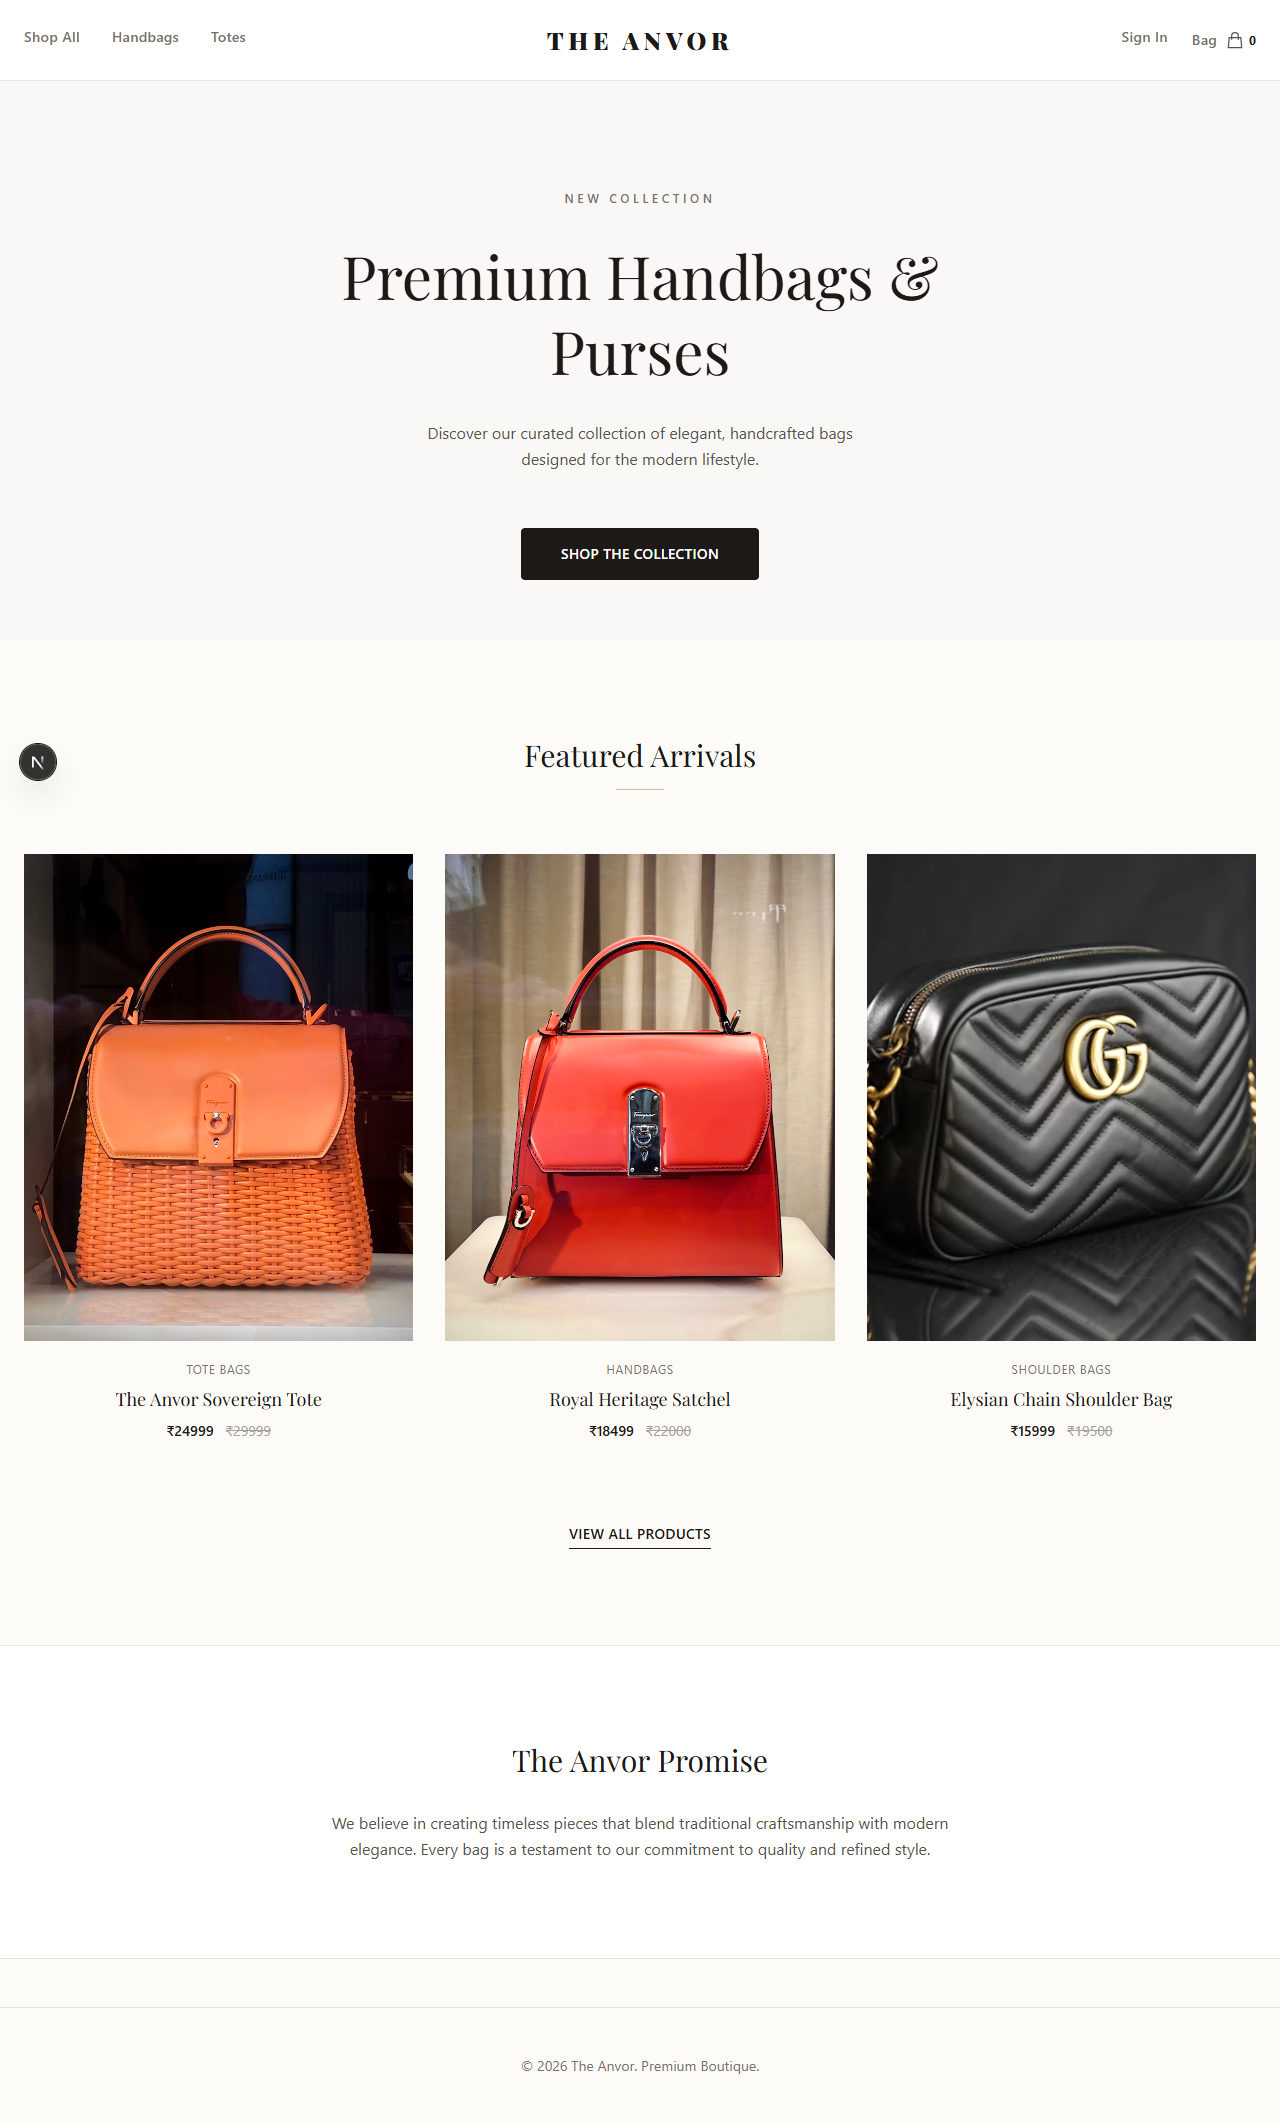
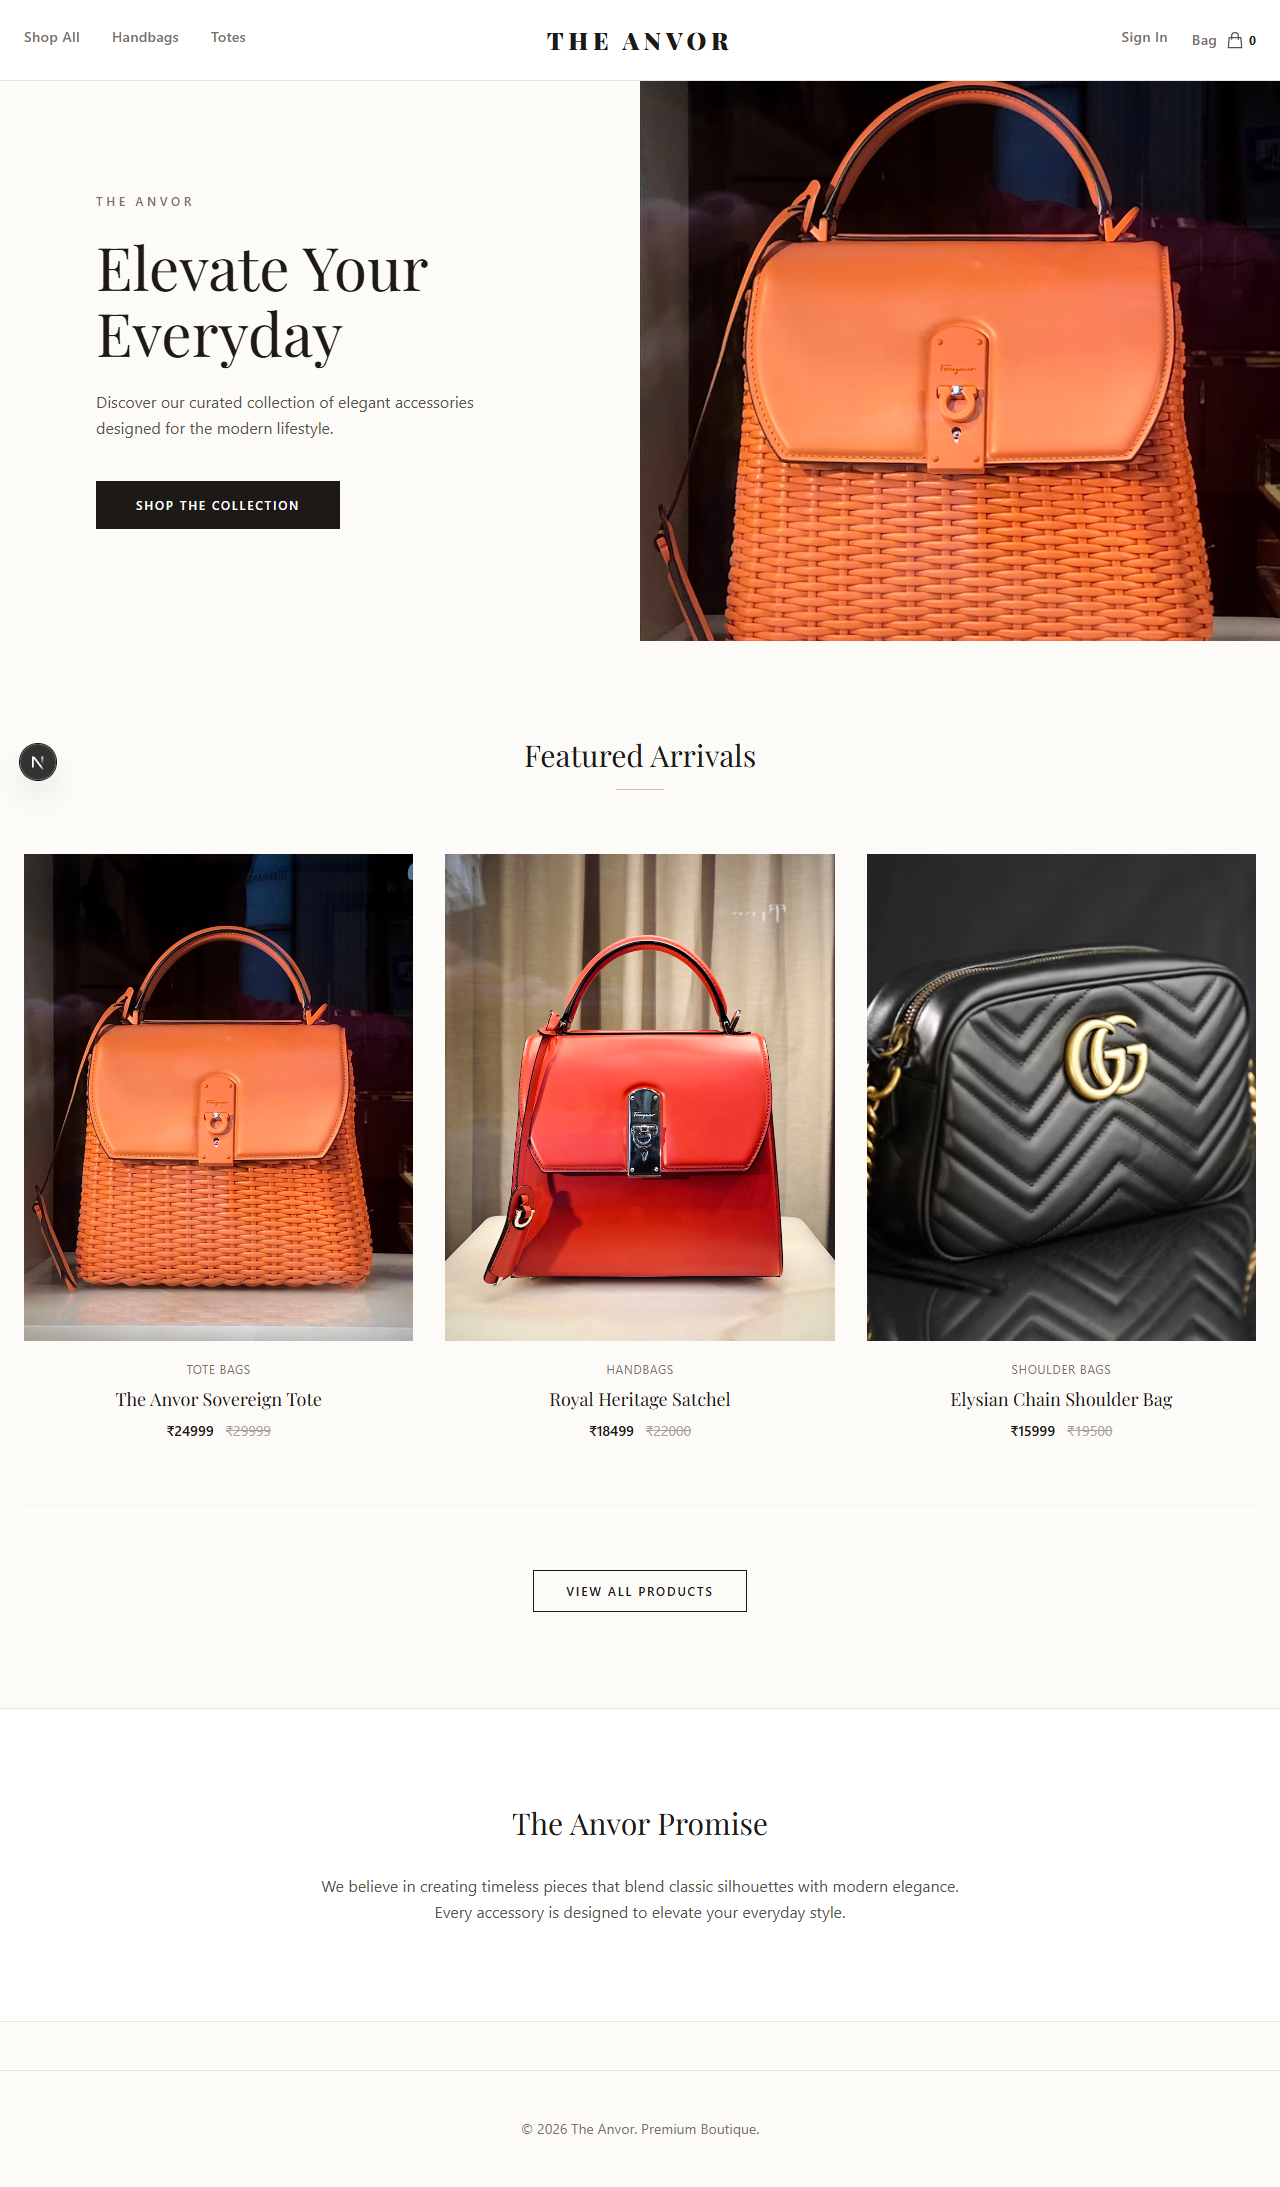
chore: final day 4 polish (hero layout, stricter csrf origin, rate limiting tests)

diff --git a/client/src/app/page.tsx b/client/src/app/page.tsx
@@ -11,30 +11,34 @@ export default async function Home() {
 
   return (
     <div className="flex flex-col">
-      {/* Hero Section */}
-      <section className="relative w-full h-[70vh] min-h-125 flex flex-col justify-center items-center text-center px-6 overflow-hidden bg-[#FDFBF7]">
-        {/* Subtle decorative background - we could use an image here later */}
-        <div className="absolute inset-0 bg-stone-100/50 z-0 flex flex-col items-center justify-center overflow-hidden">
-           {/* Abstract warm gradient or image could go here, keeping it extremely subtle for now */}
-           <div className="w-[150%] h-[150%] bg-[radial-gradient(ellipse_at_center,var(--tw-gradient-stops))] from-stone-200/40 via-[#FDFBF7] to-[#FDFBF7] rounded-full blur-3xl opacity-60"></div>
-        </div>
-        
-        <div className="relative z-10 max-w-2xl mx-auto space-y-8 mt-12">
-          <p className="text-xs tracking-[0.3em] text-stone-500 uppercase font-medium">New Collection</p>
-          <h1 className="text-4xl md:text-6xl font-serif text-stone-900 leading-tight">
-            Premium Handbags &amp; Purses
+      {/* Editorial Hero Section */}
+      <section className="relative w-full min-h-[70vh] flex flex-col md:flex-row bg-[#FDFBF7]">
+        <div className="w-full md:w-1/2 flex flex-col justify-center items-center md:items-start text-center md:text-left px-8 md:px-16 lg:px-24 py-20 md:py-16">
+          <p className="text-xs tracking-[0.3em] text-stone-500 uppercase font-medium mb-6">The Anvor</p>
+          <h1 className="text-4xl md:text-5xl lg:text-6xl font-serif text-stone-900 leading-[1.1] mb-6">
+            Elevate Your Everyday
           </h1>
-          <p className="text-sm md:text-base text-stone-600 max-w-md mx-auto leading-relaxed">
-            Discover our curated collection of elegant, handcrafted bags designed for the modern lifestyle.
+          <p className="text-sm md:text-base text-stone-600 max-w-sm leading-relaxed mb-10">
+            Discover our curated collection of elegant accessories designed for the modern lifestyle.
           </p>
-          <div className="pt-6">
-            <Link 
-              href="/products" 
-              className="inline-block bg-stone-900 text-white text-sm font-semibold tracking-wide uppercase px-10 py-4 rounded-sm hover:bg-stone-800 transition-colors"
-            >
-              Shop the Collection
-            </Link>
-          </div>
+          <Link 
+            href="/products" 
+            className="inline-block bg-stone-900 text-white text-xs font-semibold tracking-[0.15em] uppercase px-10 py-4 hover:bg-stone-800 transition-colors"
+          >
+            Shop the Collection
+          </Link>
+        </div>
+        <div className="w-full md:w-1/2 relative h-[50vh] md:h-auto bg-stone-100">
+          {featuredProducts.length > 0 ? (
+            /* eslint-disable-next-line @next/next/no-img-element */
+            <img 
+              src={featuredProducts[0].images?.[0] || 'https://via.placeholder.com/800x1000?text=Editorial'}
+              alt="Featured Collection"
+              className="absolute inset-0 w-full h-full object-cover object-center"
+            />
+          ) : (
+            <div className="absolute inset-0 bg-stone-200"></div>
+          )}
         </div>
       </section>
 
@@ -83,8 +87,8 @@ export default async function Home() {
         )}
         
         {featuredProducts.length > 0 && (
-          <div className="mt-20 text-center">
-             <Link href="/products" className="inline-block border-b border-stone-900 pb-1 text-sm font-medium tracking-wide text-stone-900 hover:text-amber-800 hover:border-amber-800 transition-colors uppercase">
+          <div className="mt-16 text-center border-t border-stone-100 pt-16">
+             <Link href="/products" className="inline-block border border-stone-900 px-8 py-3 text-xs font-semibold tracking-[0.15em] text-stone-900 hover:bg-stone-900 hover:text-white transition-colors uppercase">
                View all products
              </Link>
           </div>
@@ -96,7 +100,7 @@ export default async function Home() {
         <div className="max-w-4xl mx-auto text-center space-y-8">
           <h2 className="text-2xl md:text-3xl font-serif text-stone-900">The Anvor Promise</h2>
           <p className="text-stone-600 leading-relaxed max-w-2xl mx-auto">
-            We believe in creating timeless pieces that blend traditional craftsmanship with modern elegance. Every bag is a testament to our commitment to quality and refined style.
+            We believe in creating timeless pieces that blend classic silhouettes with modern elegance. Every accessory is designed to elevate your everyday style.
           </p>
         </div>
       </section>

diff --git a/server/src/app.js b/server/src/app.js
@@ -10,23 +10,47 @@ const app = express();
 app.use(express.json()); // Parse JSON payloads
 app.use(cookieParser()); // Parse cookies for future JWT authentication
 
-// CORS configuration for local development
+const allowedOrigins = process.env.FRONTEND_URL 
+  ? process.env.FRONTEND_URL.split(',').map(o => o.trim())
+  : ['http://localhost:3000'];
+
+// CORS configuration
 app.use(cors({
-  origin: 'http://localhost:3000', // Allow requests only from our Next.js frontend
+  origin: (origin, callback) => {
+    // Allow requests with no origin (like mobile apps or curl requests)
+    if (!origin) return callback(null, true);
+    if (allowedOrigins.includes(origin)) {
+      return callback(null, true);
+    }
+    return callback(new Error('Not allowed by CORS'));
+  },
   credentials: true, // Allow cookies to be sent across origins
 }));
 
 // Explicit CSRF / Origin Validation for state-changing methods
 app.use((req, res, next) => {
-  const allowedOrigin = 'http://localhost:3000';
   const methods = ['POST', 'PUT', 'PATCH', 'DELETE'];
   
   // Only validate state-changing methods
   if (methods.includes(req.method)) {
-    const origin = req.headers.origin || req.headers.referer;
-    // In strict CSRF prevention, missing origin/referer on state-changing methods is usually rejected
-    // or strictly compared to the allowed origin
-    if (!origin || !origin.startsWith(allowedOrigin)) {
+    // Mobile apps using Bearer tokens are not vulnerable to browser-based CSRF
+    const authHeader = req.headers.authorization;
+    if (authHeader && authHeader.startsWith('Bearer ')) {
+      return next();
+    }
+
+    // For browser clients using cookies, enforce strict Origin/Referer matching
+    let origin = req.headers.origin;
+    if (!origin && req.headers.referer) {
+      try {
+        const refererUrl = new URL(req.headers.referer);
+        origin = refererUrl.origin;
+      } catch (e) {
+        // invalid referer URL
+      }
+    }
+
+    if (!origin || !allowedOrigins.includes(origin)) {
       return res.status(403).json({ success: false, error: 'CSRF Origin Validation Failed' });
     }
   }

diff --git a/server/testRateLimit.js b/server/testRateLimit.js
@@ -1,0 +1,59 @@
+const http = require('http');
+
+async function makeRequest() {
+  return new Promise((resolve, reject) => {
+    const options = {
+      hostname: 'localhost',
+      port: 5000,
+      path: '/api/auth/otp/request',
+      method: 'POST',
+      headers: {
+        'Content-Type': 'application/json',
+        'Origin': 'http://localhost:3000'
+      }
+    };
+
+    const req = http.request(options, (res) => {
+      let data = '';
+      res.on('data', chunk => data += chunk);
+      res.on('end', () => resolve({ statusCode: res.statusCode, data }));
+    });
+
+    req.on('error', error => reject(error));
+    // Provide a dummy phone just to hit the rate limiter before the actual OTP logic triggers if we hit limits
+    req.write(JSON.stringify({ phone: '+910000000000', channel: 'SMS', purpose: 'LOGIN' }));
+    req.end();
+  });
+}
+
+async function runTest() {
+  console.log('Running Rate Limit Test (21 requests)...');
+  let successCount = 0;
+  let rateLimitedCount = 0;
+  
+  for (let i = 1; i <= 21; i++) {
+    try {
+      const res = await makeRequest();
+      if (res.statusCode === 429 && res.data.includes('Too many authentication attempts')) {
+        rateLimitedCount++;
+        console.log(`Request ${i}: Rate Limited (429)`);
+      } else {
+        successCount++;
+        console.log(`Request ${i}: Allowed (${res.statusCode})`);
+      }
+    } catch (e) {
+      console.log(`Request ${i}: Failed (${e.message})`);
+    }
+  }
+  
+  console.log(`\nResults: Allowed = ${successCount}, Rate Limited = ${rateLimitedCount}`);
+  if (rateLimitedCount > 0) {
+    console.log('✅ Rate Limiting is active and working properly!');
+    process.exit(0);
+  } else {
+    console.error('❌ Rate Limiting failed to trigger.');
+    process.exit(1);
+  }
+}
+
+runTest();
